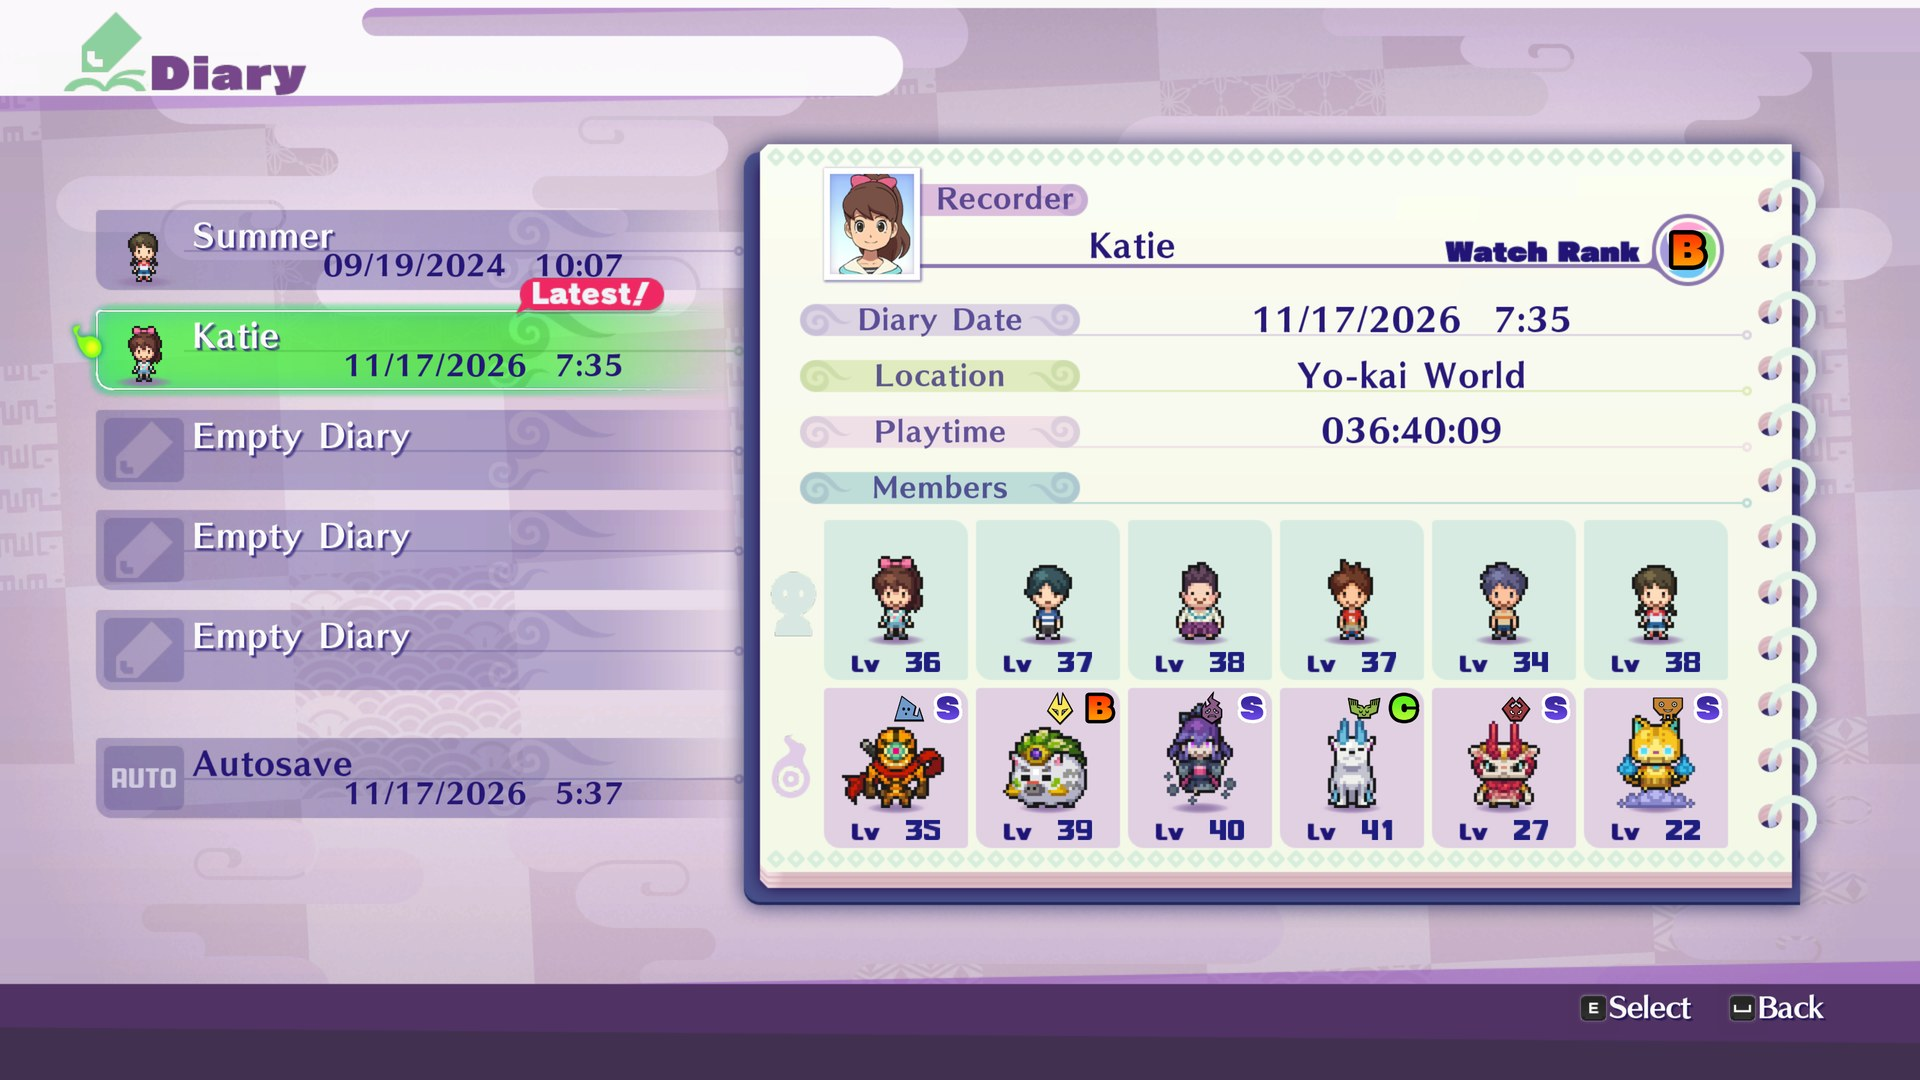
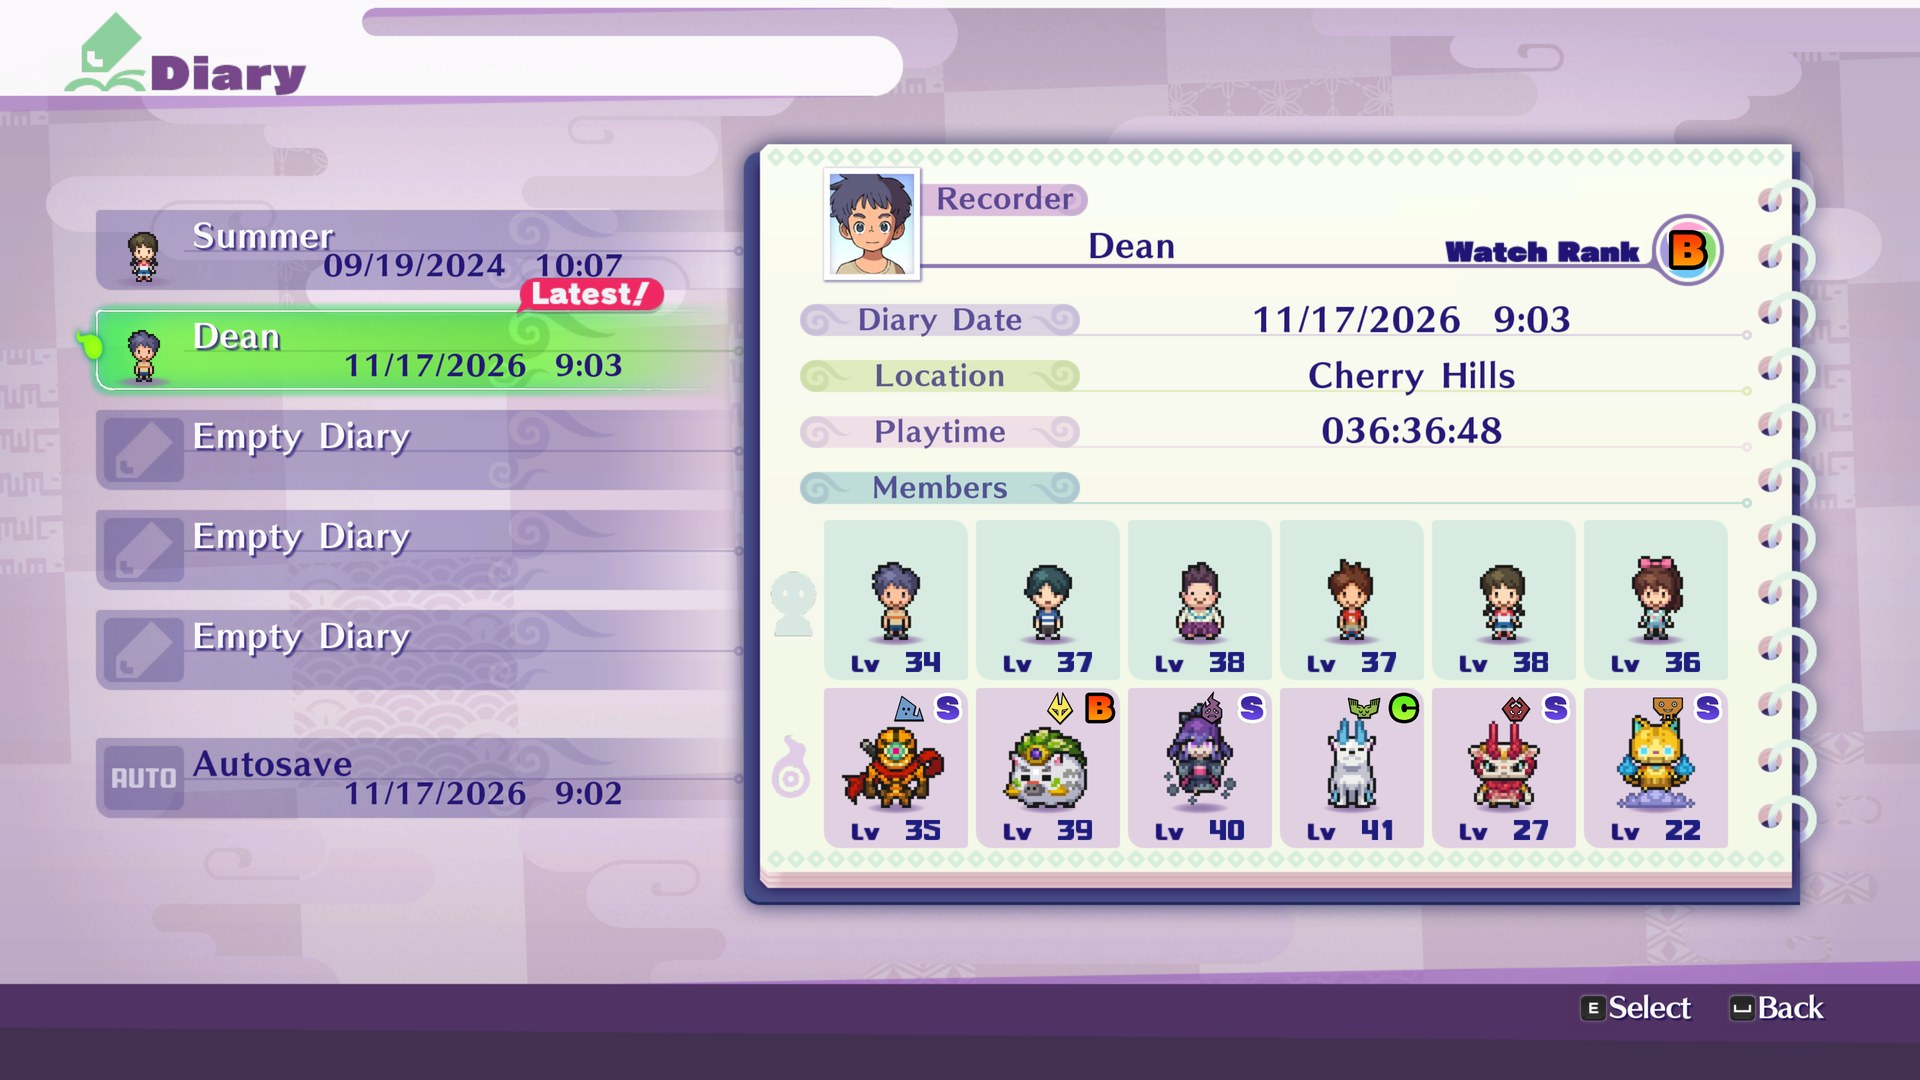
README and site: the New Game slot list, and a newer Diary screenshot

diff --git a/docs/extras/index.html b/docs/extras/index.html
@@ -214,7 +214,7 @@ try { const t = localStorage.getItem('yw4-theme'); if (t === 'dark' || t === 'li
       <div class="body">
         <div class="top">
           <div class="prose">
-            <p>The game keeps one save and one autosave. Here the Diary has <b>five save slots</b>, shown as five rows like the game's own, with the <b>Autosave</b> (your latest play) under them. On the title, Up and Down (or the mouse wheel) move through the rows; the newest is chosen when the Diary opens. An empty slot has nothing to load. <b>New Game</b> asks which slot your game goes in, and asks again before it replaces a save; <b>X</b> twice deletes one.</p>
+            <p>The game keeps one save and one autosave. Here the Diary has <b>five save slots</b>, shown as five rows like the game's own, with the <b>Autosave</b> (your latest play) under them. On the title, Up and Down (or the mouse wheel) move through the rows; the newest is chosen when the Diary opens. An empty slot has nothing to load. <b>New Game</b> asks which slot your game goes in, in the Diary's look, and asks again before it replaces a save; <b>Back to the title</b> leaves without starting one. A save is only replaced when you save your new game over it in the Diary. <b>X</b> twice deletes one.</p>
           </div>
           <div class="spec"><dl>
             <dt>Slots</dt><dd>5, and one Autosave</dd>
@@ -225,6 +225,10 @@ try { const t = localStorage.getItem('yw4-theme'); if (t === 'dark' || t === 'li
         <figure class="whole">
           <img src="../screenshots/100-diary-save-slots.jpg" loading="lazy" alt="The Diary on the title screen: two saves, three empty slots and the Autosave row, with the picked diary on the right">
           <figcaption>Continue on the title: the rows, and the picked diary on the right</figcaption>
+        </figure>
+        <figure class="whole">
+          <img src="../screenshots/100-diary-new-game.jpg" loading="lazy" alt="New Game: the slot list in the Diary's look, slot 1 chosen with its page on the right, three empty slots and Back to the title">
+          <figcaption>New Game: choose the slot for your new game</figcaption>
         </figure>
       </div>
     </article>

diff --git a/docs/index.html b/docs/index.html
@@ -563,6 +563,7 @@ function autoCycle(area, next) {
         { tab: "Mod merger", img: S + "91-mod-merger.jpg", cap: "Mods that change the same file are merged, and the launcher names only the real clashes." } ] },
     { name: "Extras", go: "extras/", icon: "<svg viewBox=\"0 0 48 48\" aria-hidden=\"true\"><defs><clipPath id=\"yc11\"><path d=\"M0 0H48L0 48z\"/></clipPath><g id=\"ys11\"><rect x=\"7\" y=\"21\" width=\"34\" height=\"22\" rx=\"2.5\"/><rect x=\"5\" y=\"14\" width=\"38\" height=\"9\" rx=\"2.5\"/></g></defs><use href=\"#ys11\" fill=\"#ec6fae\"/><use href=\"#ys11\" fill=\"#c4458a\" clip-path=\"url(#yc11)\"/><rect x=\"21\" y=\"14\" width=\"6\" height=\"29\" fill=\"#ffffff\"/><path d=\"M24 14c-4-9-14-8-11-2 2 3 7 3 11 2zM24 14c4-9 14-8 11-2-2 3-7 3-11 2z\" fill=\"#ffffff\"/></svg>", d: "Five save slots in the Diary, cheats and screenshots", views: [
         { tab: "Save slots", img: S + "100-diary-save-slots.jpg", cap: "Five save slots stacked in the Diary, with one Autosave under them; the newest is marked Latest!" },
+        { tab: "New Game", img: S + "100-diary-new-game.jpg", cap: "New Game asks which slot your new game goes in, in the Diary's look; a save is only replaced when you save over it." },
         { tab: "Saving", img: S + "100-diary-save-in-game.jpg", cap: "Saving in the game: Left and Right choose the slot, as the hint at the bottom says." },
         { tab: "Screenshots", img: S + "92-screenshots.jpg", cap: "F12 saves a screenshot at full resolution; the launcher shows them all." } ] },
   ];

diff --git a/README.md b/README.md
@@ -583,7 +583,7 @@ from there (while the game isn't running) ([decision 0074](docs/decisions/0074-c
 <details>
 <summary><b>Diary save slots</b>: five save slots stacked in the Diary, and one Autosave under them</summary>
 
-![The Diary on the title screen: two saves (Summer, and Katie marked Latest!), three empty slots and the Autosave row, with Katie's diary page on the right](docs/screenshots/100-diary-save-slots.jpg)
+![The Diary on the title screen: two saves (Summer, and Dean marked Latest!), three empty slots and the Autosave row, with Dean's diary page on the right](docs/screenshots/100-diary-save-slots.jpg)
 
 The game keeps one save and one autosave. Here the Diary has **five save slots**, shown as five rows like the game's
 own, with the **Autosave** (your latest play) under them:
@@ -595,7 +595,12 @@ own, with the **Autosave** (your latest play) under them:
 
   ![Save in the game: slot 2 of 5 (Katie) on the diary page, and the hint at the bottom: Change Slot, Save, Back](docs/screenshots/100-diary-save-in-game.jpg)
 
-- **New Game** asks which slot your new game goes in, and asks again before it replaces a save.
+- **New Game** asks which slot your new game goes in, in the Diary's look, and asks again before it replaces a save.
+  **Back to the title** (or Back) leaves without starting one. A save is only replaced when you save your new game
+  over it in the Diary.
+
+  ![New Game: the slot list in the Diary's look, slot 1 (Summer) chosen with its page on the right, slot 2 (Dean), three empty slots and Back to the title](docs/screenshots/100-diary-new-game.jpg)
+
 - **X** twice deletes a slot's save.
 
 Your existing save is slot 1. Your game files aren't changed: the extra rows are made in memory each time the game
